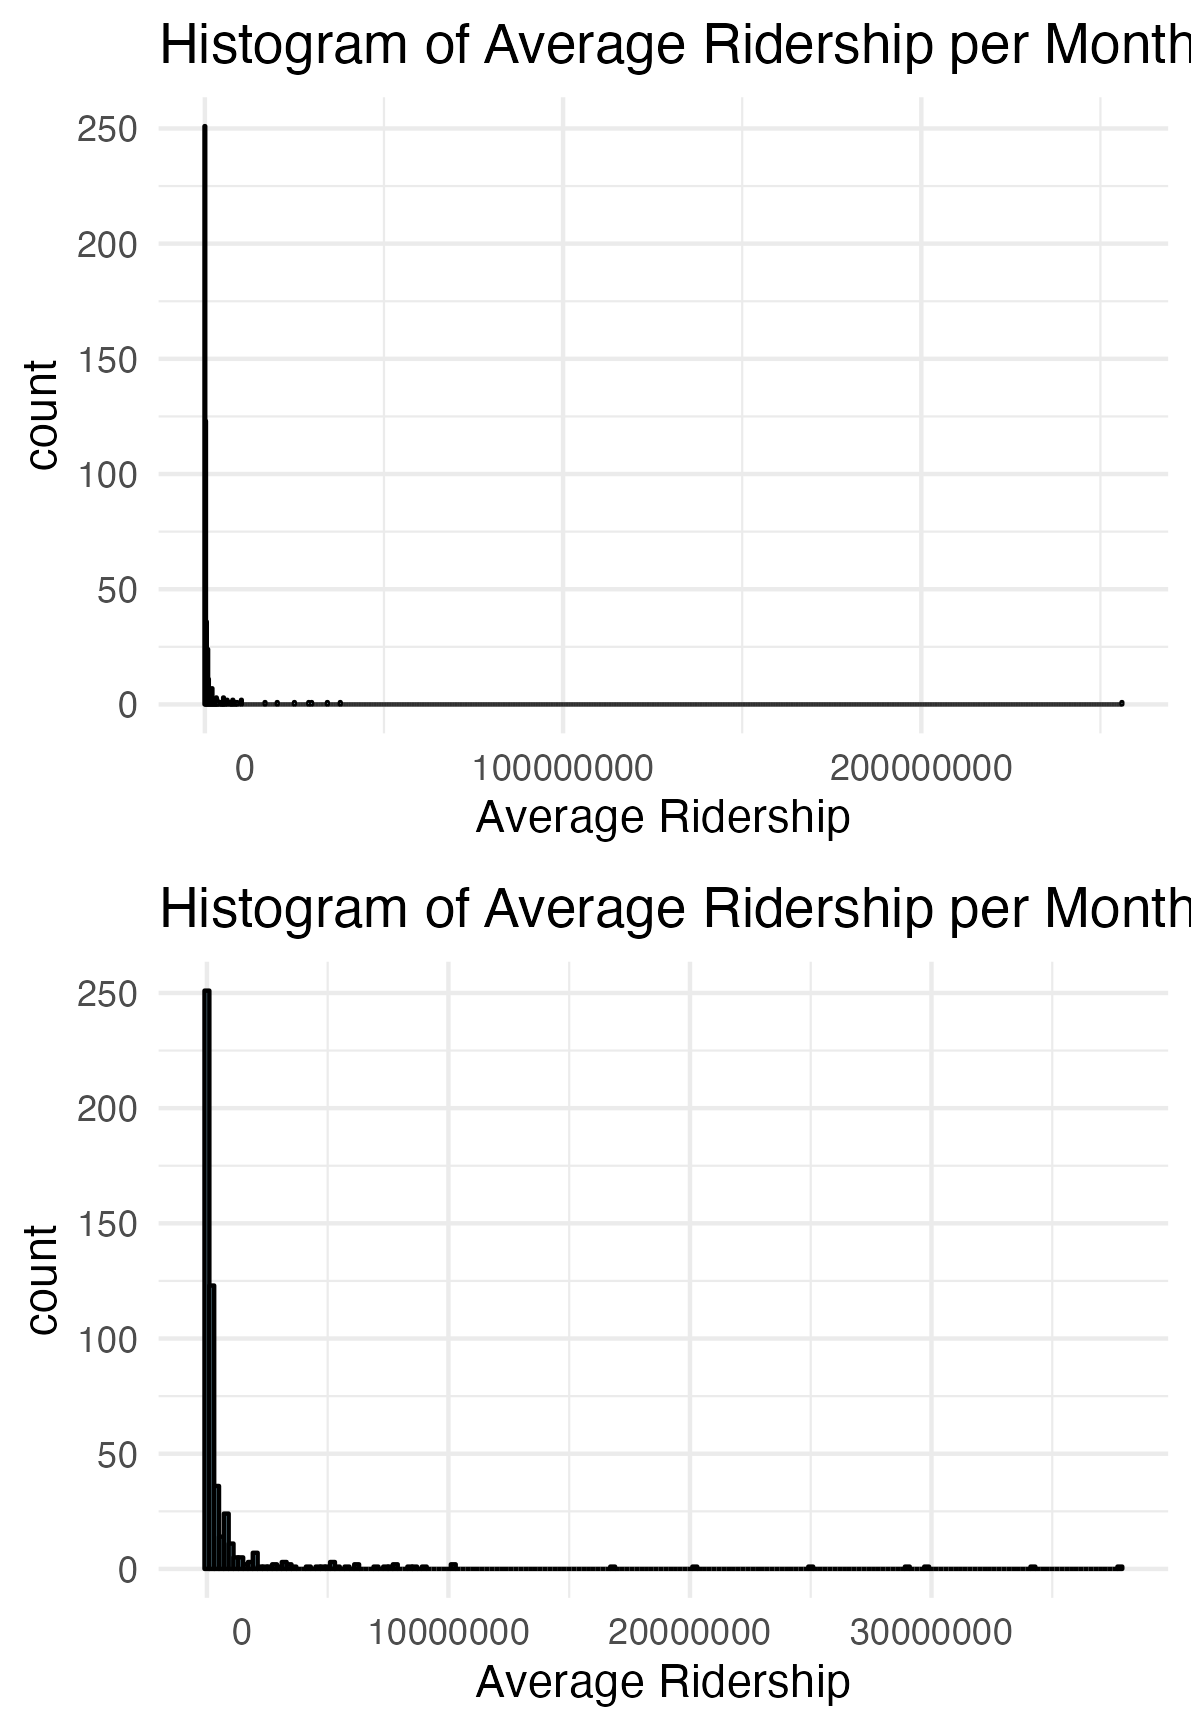
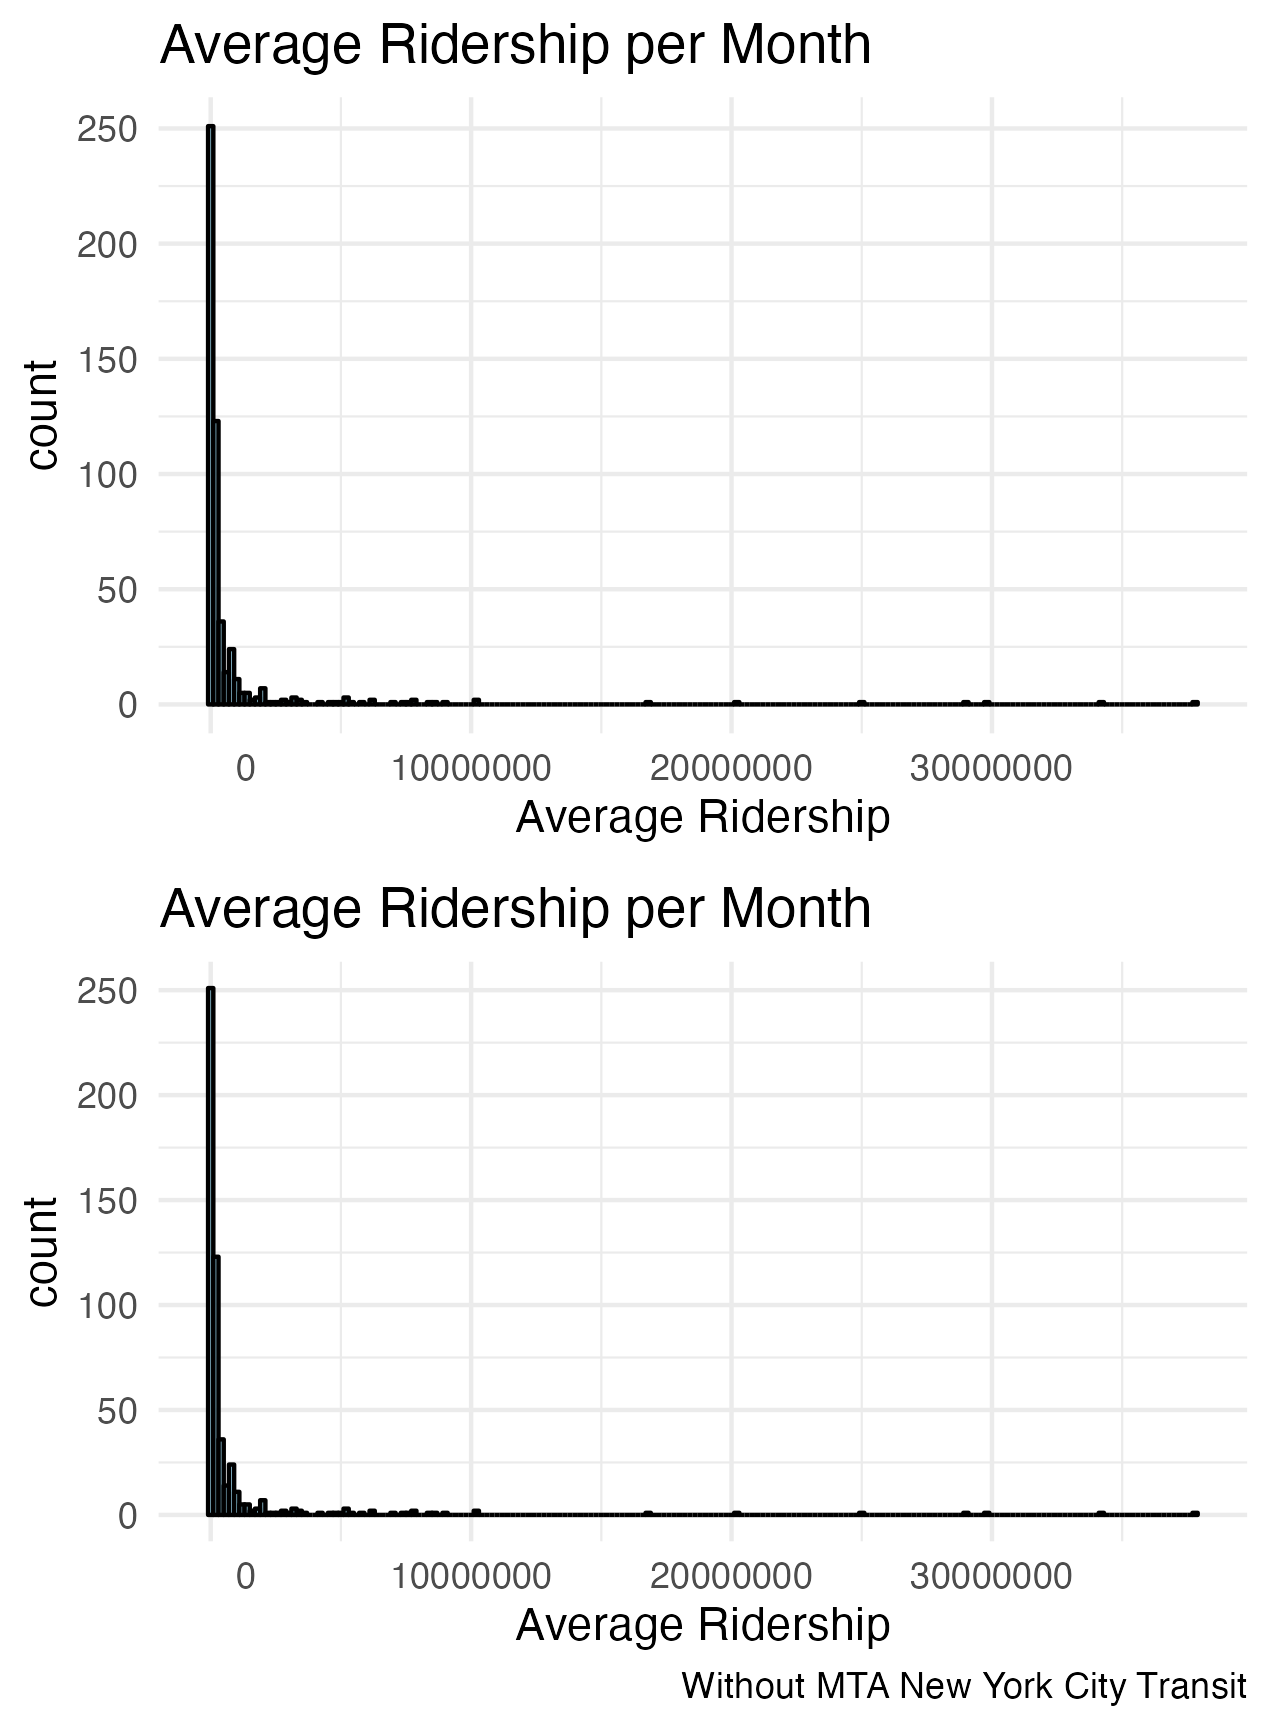
Adding coefficient plot, as well as my latex doc for a set of tables, graphs, etc.

diff --git a/writing/data_regs_tables.tex b/writing/data_regs_tables.tex
@@ -1,0 +1,296 @@
+\documentclass [11pt]{article}
+\usepackage{booktabs}
+\usepackage{rotating}
+\usepackage{geometry}
+\usepackage{graphicx}
+\usepackage{amsmath}
+\usepackage{dcolumn}
+\usepackage{float}
+\usepackage{tabularx}
+\restylefloat{table}
+
+\title{TNC Integration and Subsidization as a Compliment to Public Transportation}
+\author{Charlie Berman}
+
+\begin{document}
+\maketitle
+
+\section*{Regressions}
+
+\subsection*{Basic Regressions}
+\begingroup
+\centering
+\begin{tabular}{lccccc}
+   \tabularnewline \midrule \midrule
+   Dependent Variables: & \multicolumn{2}{c}{ridership} & log(ridership) & ridership & log(ridership)\\
+   Model:                 & (1)                   & (2)                   & (3)                   & (4)                   & (5)\\  
+   \midrule
+   \emph{Variables}\\
+   Constant               & 2,616,962.7$^{***}$   &                       &                       &                       &   \\   
+                          & (28,280.7)            &                       &                       &                       &   \\   
+   treated $\times$ time  & -2,024,092.7          & 67,348.2$^{*}$        & -0.1077$^{**}$        & 417,961.8$^{***}$     & -0.7074$^{***}$\\   
+                          & (2,447,533.6)         & (35,459.1)            & (0.0436)              & (124,785.7)           & (0.1007)\\   
+   \midrule
+   \emph{Fixed-effects}\\
+   agency                 &                       & Yes                   & Yes                   & Yes                   & Yes\\  
+   month                  &                       & Yes                   & Yes                   &                       & \\  
+   date                   &                       &                       &                       & Yes                   & Yes\\  
+   \midrule
+   \emph{Fit statistics}\\
+   Observations           & 314,577               & 314,577               & 314,577               & 314,577               & 314,577\\  
+   R$^2$                  & $2.17\times 10^{-6}$  & 0.99407               & 0.73850               & 0.99413               & 0.76482\\  
+   Within R$^2$           &                       & $3.99\times 10^{-7}$  & $3.14\times 10^{-7}$  & $1.54\times 10^{-5}$  & $1.5\times 10^{-5}$\\   
+   \midrule \midrule
+   \multicolumn{6}{l}{\emph{Signif. Codes: ***: 0.01, **: 0.05, *: 0.1}}\\
+\end{tabular}
+\par\endgroup
+
+The dataset for this one does not include dates after 03/01/20 (COVID)\\
+\textbf{Treatment Group}
+\begin{itemize}
+    \item Pinellas Suncoast Transit Authority
+    \item Livermore/Amador Valley Transit Authority
+    \item Research Triangle Regional Public Transportation Authority
+\end{itemize}
+\textbf{Equations}
+\begin{enumerate}
+    \item $y_{it} = \beta D_{it}$, no fixed effects
+    \item $y_{it} = \beta D_{it} + \text{agency} + \text{month}$, month and agency fixed effects
+    \item $\ln(y_{it}) = \beta D_{it}+ \text{agency} + \text{month}$, fixed effects and taking log of ridership
+    \item $y_{it} = \beta D_{it}+ \text{agency} + \text{date}$, changing month fixed effects to date fixed effects (month, year)
+    \item $\ln(y_{it}) = \beta D_{it}+ \text{agency} + \text{date}$, using log of ridership
+\end{enumerate}
+\textbf{Notes}
+\begin{itemize}
+    \item Adding date fixed effects increases magnitude and changes effect of ridership to negative. Why?
+    \item Lose statistical significance for (3) and (4). Look into
+\end{itemize}
+
+
+
+\begingroup
+\centering
+\begin{tabular}{lccccc}
+   \tabularnewline \midrule \midrule
+   Dependent Variables: & \multicolumn{2}{c}{ridership} & log(ridership) & ridership & log(ridership)\\
+   Model:                 & (1)                   & (2)                 & (3)                  & (4)                   & (5)\\  
+   \midrule
+   \emph{Variables}\\
+   Constant               & 2,450,385.1$^{***}$   &                     &                      &                       &   \\   
+                          & (24,938.7)            &                     &                      &                       &   \\   
+   treated $\times$ time  & -706,035.7            & -1,098,683.5$^{**}$ & -0.4231$^{***}$      & -20,793.8             & -0.8935$^{***}$\\   
+                          & (493,190.8)           & (486,809.3)         & (0.0908)             & (582,936.9)           & (0.1330)\\   
+   \midrule
+   \emph{Fixed-effects}\\
+   agency                 &                       & Yes                 & Yes                  & Yes                   & Yes\\  
+   month                  &                       & Yes                 & Yes                  &                       & \\  
+   date                   &                       &                     &                      & Yes                   & Yes\\  
+   \midrule
+   \emph{Fit statistics}\\
+   Observations           & 369,585               & 369,585             & 369,585              & 369,585               & 369,585\\  
+   R$^2$                  & $5.55\times 10^{-6}$  & 0.97232             & 0.70354              & 0.97308               & 0.73059\\  
+   Within R$^2$           &                       & 0.00041             & $7.8\times 10^{-5}$  & $1.48\times 10^{-7}$  & 0.00038\\  
+   \midrule \midrule
+   \multicolumn{6}{l}{\emph{Signif. Codes: ***: 0.01, **: 0.05, *: 0.1}}\\
+\end{tabular}
+\par\endgroup
+
+
+\textbf{Treatment Group}
+\begin{itemize}
+    \item Pinellas Suncoast Transit Authority
+    \item Livermore/Amador Valley Transit Authority
+    \item Research Triangle Regional Public Transportation Authority
+    \item Dallas Area Rapid Transit 
+    \item Bi-State Development Agency of the Missouri-Illinois Metropolitan District
+\end{itemize}
+
+\textbf{Notes}
+
+\begin{itemize}
+    \item Same equations as above, but data goes until 2023 (removing 2020)
+\end{itemize}
+
+\subsection*{Without New York City}
+\begingroup
+\centering
+\begin{tabular}{lccccc}
+   \tabularnewline \midrule \midrule
+   Dependent Variables: & \multicolumn{2}{c}{ridership} & log(ridership) & ridership & log(ridership)\\
+   Model:                 & (1)                   & (2)                   & (3)                   & (4)                   & (5)\\  
+   \midrule
+   \emph{Variables}\\
+   Constant               & 1,697,670.2$^{***}$   &                       &                       &                       &   \\   
+                          & (8,512.2)             &                       &                       &                       &   \\   
+   treated $\times$ time  & -1,056,538.8          & 141,851.6$^{***}$     & 0.3059$^{*}$          & 194,826.0$^{***}$     & -0.7862$^{***}$\\   
+                          & (963,034.3)           & (35,452.0)            & (0.1842)              & (52,477.5)            & (0.2134)\\   
+   \midrule
+   \emph{Fixed-effects}\\
+   agency                 &                       & Yes                   & Yes                   & Yes                   & Yes\\  
+   month                  &                       & Yes                   & Yes                   &                       & \\  
+   date                   &                       &                       &                       & Yes                   & Yes\\  
+   \midrule
+   \emph{Fit statistics}\\
+   Observations           & 358,392               & 358,392               & 358,392               & 358,392               & 358,392\\  
+   R$^2$                  & $3.36\times 10^{-6}$  & 0.98796               & 0.66734               & 0.98825               & 0.72636\\  
+   Within R$^2$           &                       & $4.98\times 10^{-6}$  & $9.64\times 10^{-7}$  & $9.55\times 10^{-6}$  & $7.68\times 10^{-6}$\\   
+   \midrule \midrule
+   \multicolumn{6}{l}{\emph{Signif. Codes: ***: 0.01, **: 0.05, *: 0.1}}\\
+\end{tabular}
+\par\endgroup
+
+\begingroup
+\centering
+\begin{tabular}{lccccc}
+   \tabularnewline \midrule \midrule
+   Dependent Variables: & \multicolumn{2}{c}{ridership} & log(ridership) & ridership & log(ridership)\\
+   Model:                 & (1)                  & (2)                 & (3)                   & (4)         & (5)\\  
+   \midrule
+   \emph{Variables}\\
+   Constant               & 1,593,889.3$^{***}$  &                     &                       &             &   \\   
+                          & (7,559.0)            &                     &                       &             &   \\   
+   treated $\times$ time  & 150,460.2            & -1,068,664.2$^{**}$ & -0.2535               & -321,695.4  & -1.162$^{***}$\\   
+                          & (157,956.7)          & (484,729.5)         & (0.1929)              & (509,198.4) & (0.2225)\\   
+   \midrule
+   \emph{Fixed-effects}\\
+   agency                 &                      & Yes                 & Yes                   & Yes         & Yes\\  
+   month                  &                      & Yes                 & Yes                   &             & \\  
+   date                   &                      &                     &                       & Yes         & Yes\\  
+   \midrule
+   \emph{Fit statistics}\\
+   Observations           & 412,644              & 412,644             & 412,644               & 412,644     & 412,644\\  
+   R$^2$                  & $2.2\times 10^{-6}$  & 0.95427             & 0.63756               & 0.95749     & 0.69914\\  
+   Within R$^2$           &                      & 0.00209             & $1.71\times 10^{-5}$  & 0.00020     & 0.00043\\  
+   \midrule \midrule
+   \multicolumn{6}{l}{\emph{Signif. Codes: ***: 0.01, **: 0.05, *: 0.1}}\\
+\end{tabular}
+\par\endgroup
+
+These two regressions are the same as the two tables above (pre-COVID and during COVID) but New York City is removed from the sample. We see that this has basically no effect on the regression table.
+
+\subsection*{UZA ridership vs Agency Ridership}
+\begingroup
+\centering
+\begin{tabular}{lcccc}
+   \tabularnewline \midrule \midrule
+   Dependent Variables:   & ridership             & log(ridership)       & total\_ridership      & log(total\_ridership)\\   
+   Model:                 & (1)                   & (2)                  & (3)                   & (4)\\  
+   \midrule
+   \emph{Variables}\\
+   treated $\times$ time  & 417,961.8$^{***}$     & -0.7074$^{***}$      & 17,474,872.4$^{***}$  & -0.2273$^{***}$\\   
+                          & (124,785.7)           & (0.1007)             & (2,172,347.0)         & (0.0685)\\   
+   \midrule
+   \emph{Fixed-effects}\\
+   agency                 & Yes                   & Yes                  & Yes                   & Yes\\  
+   date                   & Yes                   & Yes                  & Yes                   & Yes\\  
+   \midrule
+   \emph{Fit statistics}\\
+   Observations           & 314,577               & 314,577              & 314,577               & 314,577\\  
+   R$^2$                  & 0.99413               & 0.76482              & 0.99391               & 0.86024\\  
+   Within R$^2$           & $1.54\times 10^{-5}$  & $1.5\times 10^{-5}$  & $5.49\times 10^{-5}$  & $3.11\times 10^{-6}$\\   
+   \midrule \midrule
+   \multicolumn{5}{l}{\emph{Clustered (agency) standard-errors in parentheses}}\\
+   \multicolumn{5}{l}{\emph{Signif. Codes: ***: 0.01, **: 0.05, *: 0.1}}\\
+\end{tabular}
+\par\endgroup
+
+\textbf{Notes}
+
+Regressions (3) and (4) use the pre-COVID treatment group (only 3) and regress treatment $\times$ time on the total ridership in a UZA. Note that the increase in ridership is much larger, which makes sense given this accounts for a whole UZA. However, the decrease in the log is a lot smaller. Still using agency and date fixed effects.
+
+\subsection*{Population Controls: Agency and UZA ridership}
+\begingroup
+\centering
+\begin{tabular}{lccccc}
+   \tabularnewline \midrule \midrule
+   Dependent Variables: & total\_ridership & \multicolumn{4}{c}{log(total\_ridership)}\\
+   Model:                 & (1)                   & (2)                   & (3)                   & (4)                   & (5)\\  
+   \midrule
+   \emph{Variables}\\
+   treated $\times$ time  & 14,953,608.9$^{***}$  & -0.0048               & -0.0797               & 0.0067                & -0.0049\\   
+                          & (2,396,557.7)         & (0.0335)              & (0.2149)              & (0.0315)              & (0.0335)\\   
+   \midrule
+   \emph{Fixed-effects}\\
+   agency                 & Yes                   & Yes                   & Yes                   & Yes                   & Yes\\  
+   date                   & Yes                   & Yes                   & Yes                   & Yes                   & Yes\\  
+   pop                    & Yes                   & Yes                   &                       &                       & \\  
+   med\_age               &                       &                       & Yes                   &                       & \\  
+   white                  &                       &                       &                       & Yes                   & \\  
+   med\_house\_income     &                       &                       &                       &                       & Yes\\  
+   \midrule
+   \emph{Fit statistics}\\
+   Observations           & 288,762               & 288,762               & 288,762               & 287,283               & 288,762\\  
+   R$^2$                  & 0.99619               & 0.98996               & 0.89878               & 0.99039               & 0.98995\\  
+   Within R$^2$           & $5.16\times 10^{-5}$  & $2.05\times 10^{-8}$  & $5.98\times 10^{-7}$  & $4.23\times 10^{-8}$  & $2.13\times 10^{-8}$\\   
+   \midrule \midrule
+   \multicolumn{6}{l}{\emph{Clustered (agency) standard-errors in parentheses}}\\
+   \multicolumn{6}{l}{\emph{Signif. Codes: ***: 0.01, **: 0.05, *: 0.1}}\\
+\end{tabular}
+\par\endgroup
+
+\begingroup
+\centering
+\begin{tabular}{lccccc}
+   \tabularnewline \midrule \midrule
+   Dependent Variables: & ridership & \multicolumn{4}{c}{log(ridership)}\\
+   Model:                 & (1)                & (2)                   & (3)                   & (4)                  & (5)\\  
+   \midrule
+   \emph{Variables}\\
+   treated $\times$ time  & 308,656.7$^{**}$   & -0.2131               & -0.5351$^{*}$         & -0.2020              & -0.2131\\   
+                          & (129,140.2)        & (0.1944)              & (0.2752)              & (0.1941)             & (0.1944)\\   
+   \midrule
+   \emph{Fixed-effects}\\
+   agency                 & Yes                & Yes                   & Yes                   & Yes                  & Yes\\  
+   date                   & Yes                & Yes                   & Yes                   & Yes                  & Yes\\  
+   pop                    & Yes                & Yes                   &                       &                      & \\  
+   med\_age               &                    &                       & Yes                   &                      & \\  
+   white                  &                    &                       &                       & Yes                  & \\  
+   med\_house\_income     &                    &                       &                       &                      & Yes\\  
+   \midrule
+   \emph{Fit statistics}\\
+   Observations           & 288,762            & 288,762               & 288,762               & 287,283              & 288,762\\  
+   R$^2$                  & 0.99439            & 0.87122               & 0.78617               & 0.87117              & 0.87122\\  
+   Within R$^2$           & $7\times 10^{-6}$  & $2.33\times 10^{-6}$  & $9.43\times 10^{-6}$  & $2.1\times 10^{-6}$  & $2.33\times 10^{-6}$\\   
+   \midrule \midrule
+   \multicolumn{6}{l}{\emph{Clustered (agency) standard-errors in parentheses}}\\
+   \multicolumn{6}{l}{\emph{Signif. Codes: ***: 0.01, **: 0.05, *: 0.1}}\\
+\end{tabular}
+\par\endgroup
+
+\textbf{Data}
+
+I am using the pre-COVID dataset. Since I have statistically significant results and COVID data has a large negative effect, I will just use pre-COVID for right now.
+
+\textbf{Notes}
+
+We see that there is no statistical significance attributed to population/ACS controls that I currently have access too. Changing from UZA ridership to Agency ridership had no effect on significance when using log. The exception is for median age in agency ridership, which had some statistical significance but I am not convinced it adds to the model.\\
+Based on this, it seems that population controls are unnecessary or not useful. Perhaps different variables need to be used?
+
+\newpage
+\section*{Charts}
+\begin{figure}[H]
+    \centering
+    \includegraphics[width=0.8\textwidth]{avg_rides_per_agency.png} % Adjust width as needed
+    \caption{Average rides per month (bin of 200,000). Bottom histogram does not include NYC}
+\end{figure}
+\begin{figure}[H]
+    \centering
+    \includegraphics[width=0.8\textwidth]{avg_agencies_uza.png} % Adjust width as needed
+    \caption{Average number of agencies per UZA}
+\end{figure}
+\begin{figure}[H]
+    \centering
+    \includegraphics[width=0.8\textwidth]{avg_ridership_over_time.png} % Adjust width as needed
+    \caption{Ridership over time}
+\end{figure}
+\begin{figure}[H]
+    \centering
+    \includegraphics[width=0.8\textwidth]{coeff_plot.png} % Adjust width as needed
+    \caption{Coefficient plot of log(ridership)}
+\end{figure}
+\textbf{Notes}
+This bodes poorly.
+
+
+
+\end{document}
